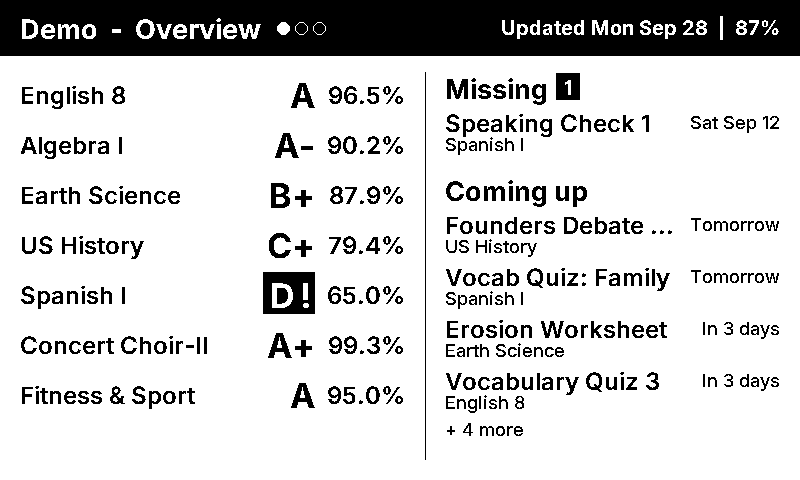
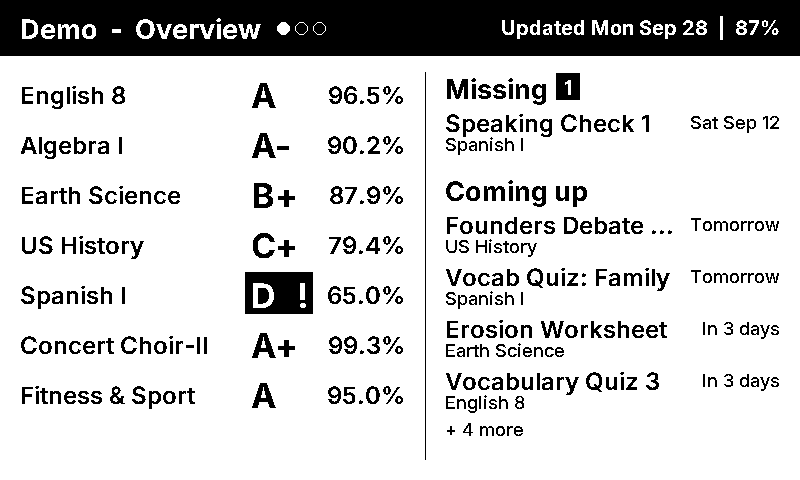
Line up the display's grade letters in a column
Grades were right-aligned, so "A", "A-" and "B+" started at different
places. Each grade now draws in fixed slots: the letter centred in the
width of the widest letter, then +/-, then the struggling "!", with the
black box around all three.

diff --git a/docs/releases/0.8.1.md b/docs/releases/0.8.1.md
@@ -6,6 +6,8 @@ Sharper text on the e-paper display.
   "H" or "U" thinner than the other. Every font on the display now uses a size that draws its
   strokes a whole number of pixels wide, so letters look the same everywhere. Body text is a
   little larger and darker, which also reads better from across a room.
+- **Grades line up.** Letter grades sit in a column, with any + or - beside them, instead of
+  shifting with the width of each grade.
 - The display's third page is now called **Coming up**, matching its heading.
 
 Nothing changes in the dashboard itself.
